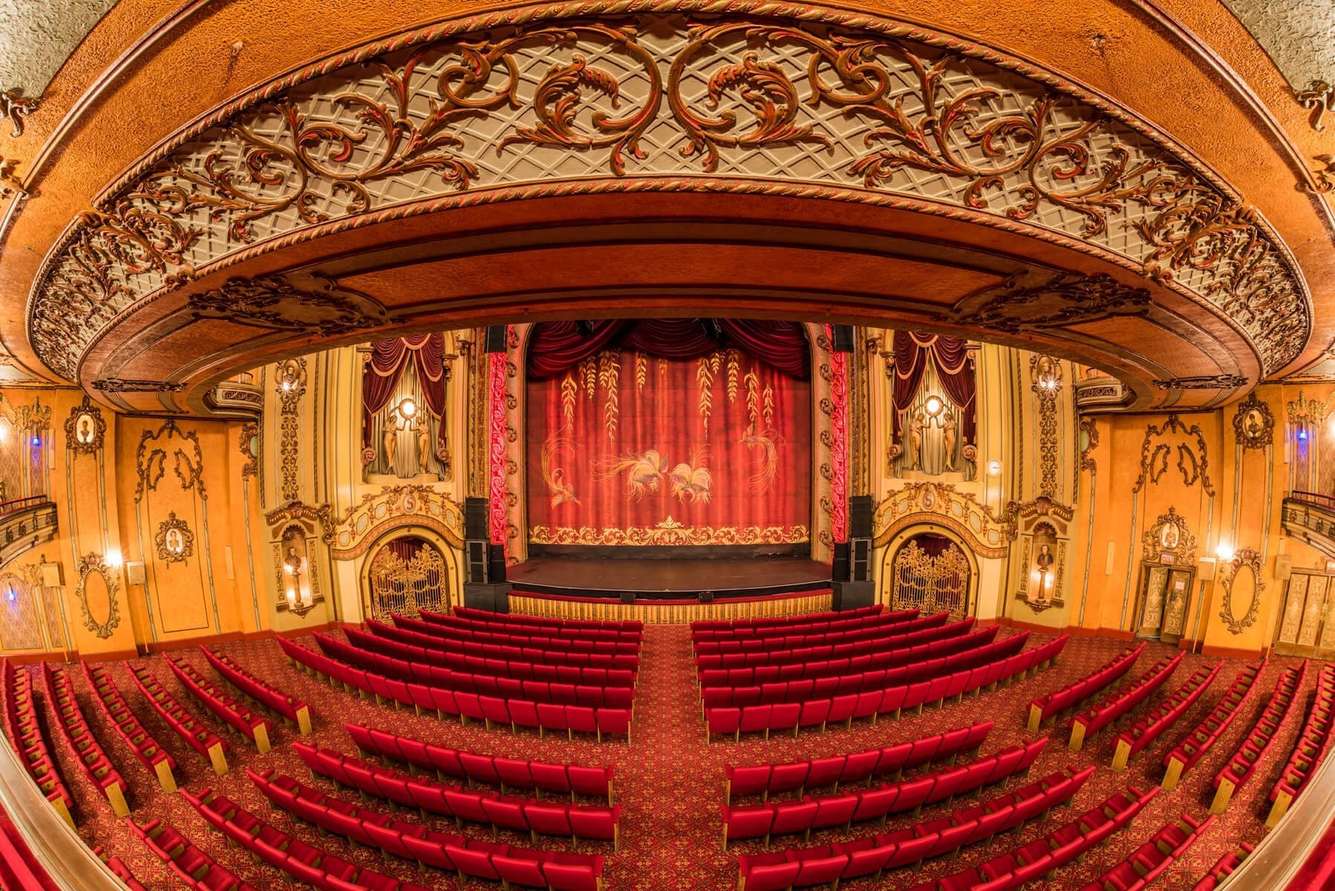
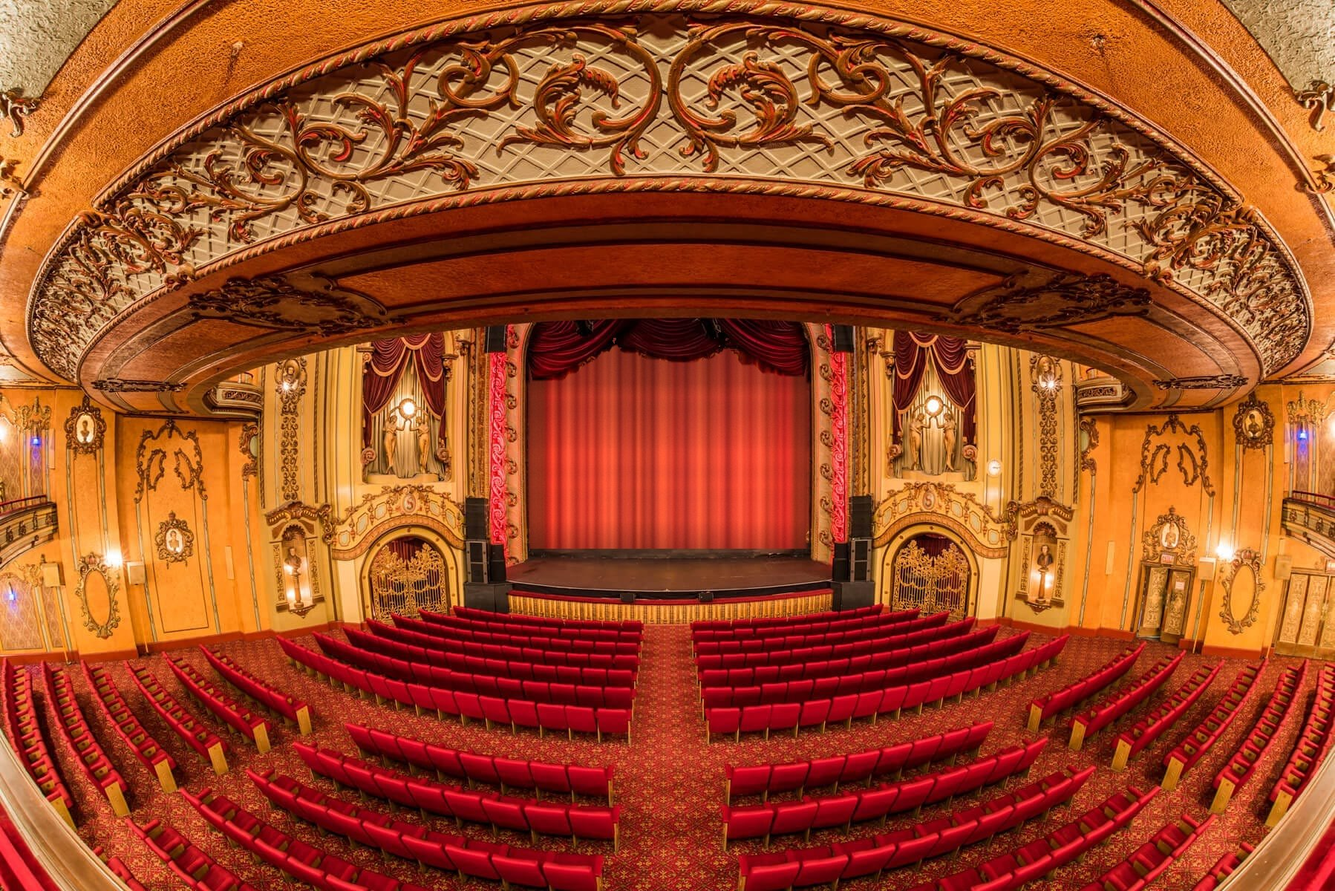
Faster entrance, plain red curtain, no captions before lights up
- Entrance push-in shortened to ~6.5s before the lights come up
- Theatre photo: replaced the embroidered house curtain with a plain red
  velvet curtain (folds and lighting rebuilt from the original), keeping
  the swag valance and gold proscenium
- Removed the opening logo overlay and all captions before lights up

Claude-Session: https://claude.ai/code/session_012HrCdgLb84tv9XXwr1UAx4

Changed region(s): [[0.3737, 0.37, 0.6229, 0.6167]]

diff --git a/index.html b/index.html
@@ -1,6 +1,6 @@
 <!doctype html><html lang="zh-CN"><head><meta charset="utf-8"><meta name="viewport" content="width=device-width,initial-scale=1"><meta name="robots" content="noindex,nofollow,noarchive,nosnippet"><meta name="googlebot" content="noindex,nofollow,noarchive,nosnippet"><title>候场喜剧 · Loading Zone Comedy</title><meta name="description" content="候场喜剧 Loading Zone Comedy — 墨尔本中文脱口秀与现场喜剧。"><link rel="stylesheet" href="styles.css"><link rel="stylesheet" href="intro.css"></head><body>
 <div class="grain"></div><header class="nav"><a class="brand" href="#home"><img src="logo.png"><span>候场喜剧<small>LOADING ZONE COMEDY</small></span></a><nav><a href="#shows" data-i18n="navShows">近期演出</a><a href="#gallery" data-i18n="navGallery">过往演出</a><a href="#membership" data-i18n="navMembership">会员</a><a href="#benefits" data-i18n="navBenefits">会员福利</a></nav><div class="nav-actions"><button class="lang" id="langBtn">EN</button><a class="member-pill" href="#login" data-i18n="memberLogin">会员登录</a></div></header>
-<section id="intro" class="intro" hidden aria-label="候场喜剧 · 剧场入场"><div class="intro-loader" data-intro="loader" aria-hidden="true"><div><div class="ring"><i style="transform:rotate(0deg) translateY(-58px);animation-delay:0.0s"></i><i style="transform:rotate(30deg) translateY(-58px);animation-delay:0.1s"></i><i style="transform:rotate(60deg) translateY(-58px);animation-delay:0.2s"></i><i style="transform:rotate(90deg) translateY(-58px);animation-delay:0.3s"></i><i style="transform:rotate(120deg) translateY(-58px);animation-delay:0.4s"></i><i style="transform:rotate(150deg) translateY(-58px);animation-delay:0.5s"></i><i style="transform:rotate(180deg) translateY(-58px);animation-delay:0.6s"></i><i style="transform:rotate(210deg) translateY(-58px);animation-delay:0.7s"></i><i style="transform:rotate(240deg) translateY(-58px);animation-delay:0.8s"></i><i style="transform:rotate(270deg) translateY(-58px);animation-delay:0.9s"></i><i style="transform:rotate(300deg) translateY(-58px);animation-delay:1.0s"></i><i style="transform:rotate(330deg) translateY(-58px);animation-delay:1.1s"></i><div class="logo-icon"></div></div><small data-copy="loading">候场中</small></div></div><div class="intro-sticky"><canvas aria-hidden="true"></canvas><div class="intro-ui"><div class="intro-brand" data-intro="brand"><img src="logo.png" alt="候场喜剧 Loading Zone Comedy"></div><p class="intro-line" data-intro="line1" data-copy="line1"></p><p class="intro-line" data-intro="line2" data-copy="line2"></p><p class="intro-line small" data-intro="line3" data-copy="line3"></p><a class="intro-hot" data-intro="hot-mic" href="#shows"><span data-copy="mic"></span></a><a class="intro-hot" data-intro="hot-stool" href="#membership"><span data-copy="stool"></span></a><div class="intro-hero" data-intro="hero"><div class="eyebrow" data-copy="eyebrow"></div><h1 data-intro="title"></h1><p data-intro="subtitle"></p><div class="cta-row"><a class="btn primary" href="#shows" data-copy="shows"></a><a class="btn" href="#membership" data-copy="join"></a></div></div><button class="intro-pill intro-skip" type="button" data-intro="skip" data-copy="skip"></button><button class="intro-pill intro-replay" type="button" data-intro="replay" data-copy="replay"></button><button class="intro-pill intro-sound" type="button" data-intro="sound" aria-pressed="false"></button><div class="intro-hint" data-intro="hint" aria-hidden="true"></div></div></div></section>
+<section id="intro" class="intro" hidden aria-label="候场喜剧 · 剧场入场"><div class="intro-loader" data-intro="loader" aria-hidden="true"><div><div class="ring"><i style="transform:rotate(0deg) translateY(-58px);animation-delay:0.0s"></i><i style="transform:rotate(30deg) translateY(-58px);animation-delay:0.1s"></i><i style="transform:rotate(60deg) translateY(-58px);animation-delay:0.2s"></i><i style="transform:rotate(90deg) translateY(-58px);animation-delay:0.3s"></i><i style="transform:rotate(120deg) translateY(-58px);animation-delay:0.4s"></i><i style="transform:rotate(150deg) translateY(-58px);animation-delay:0.5s"></i><i style="transform:rotate(180deg) translateY(-58px);animation-delay:0.6s"></i><i style="transform:rotate(210deg) translateY(-58px);animation-delay:0.7s"></i><i style="transform:rotate(240deg) translateY(-58px);animation-delay:0.8s"></i><i style="transform:rotate(270deg) translateY(-58px);animation-delay:0.9s"></i><i style="transform:rotate(300deg) translateY(-58px);animation-delay:1.0s"></i><i style="transform:rotate(330deg) translateY(-58px);animation-delay:1.1s"></i><div class="logo-icon"></div></div><small data-copy="loading">候场中</small></div></div><div class="intro-sticky"><canvas aria-hidden="true"></canvas><div class="intro-ui"><a class="intro-hot" data-intro="hot-mic" href="#shows"><span data-copy="mic"></span></a><a class="intro-hot" data-intro="hot-stool" href="#membership"><span data-copy="stool"></span></a><div class="intro-hero" data-intro="hero"><div class="eyebrow" data-copy="eyebrow"></div><h1 data-intro="title"></h1><p data-intro="subtitle"></p><div class="cta-row"><a class="btn primary" href="#shows" data-copy="shows"></a><a class="btn" href="#membership" data-copy="join"></a></div></div><button class="intro-pill intro-skip" type="button" data-intro="skip" data-copy="skip"></button><button class="intro-pill intro-replay" type="button" data-intro="replay" data-copy="replay"></button><button class="intro-pill intro-sound" type="button" data-intro="sound" aria-pressed="false"></button><div class="intro-hint" data-intro="hint" aria-hidden="true"></div></div></div></section>
 <main id="app"></main>
 <footer><div><img src="logo.png" class="footer-logo"><p>在墨尔本，把好笑的事情认真做。</p></div><div><strong>导航</strong><a href="#shows">近期演出</a><a href="#gallery">过往演出</a><a href="#membership">会员</a></div><div><strong>联系</strong><a href="mailto:info@loadingzonecomedy.com">info@loadingzonecomedy.com</a><a href="#admin">Admin / 后台</a></div><div class="copyright">© 2026 Loading Zone Comedy · 候场喜剧</div></footer>
 <script src="app.js"></script><script src="site.js"></script><script src="intro.js"></script></body></html>

diff --git a/intro.js b/intro.js
@@ -13,8 +13,8 @@
   const ui = (name) => root.querySelector('[data-intro="' + name + '"]');
   const reduceMotion = matchMedia('(prefers-reduced-motion: reduce)').matches;
   // 自动播放时间轴（秒）：开门 → 走过道 → 暗场 → 灯亮
-  const TIMELINE = [[0, 0], [2.5, 0.1], [11, 0.74], [12.5, 0.8], [14.5, 1]];
-  const LIGHT_AT = 12.5;
+  const TIMELINE = [[0, 0], [0.4, 0.1], [5.6, 0.74], [6.5, 0.8], [8, 1]];
+  const LIGHT_AT = 6.5;
   function timeToP(sec) {
     for (let i = 1; i < TIMELINE.length; i++) {
       const [t0, p0] = TIMELINE[i - 1], [t1, p1] = TIMELINE[i];
@@ -516,7 +516,7 @@
    * fx/fy 为画面聚焦点（相对照片宽高），z 为放大倍数。
    */
   const SHOTS = [
-    { src: 'intro-assets/hall-front.jpg', t0: 0, t1: 12.5, from: { fx: 0.5, fy: 0.5, z: 1.0 }, to: { fx: 0.5, fy: 0.56, z: 1.9 } }
+    { src: 'intro-assets/hall-front.jpg', t0: 0, t1: 6.5, from: { fx: 0.5, fy: 0.5, z: 1.0 }, to: { fx: 0.5, fy: 0.56, z: 1.8 } }
   ];
   let shotsReady = 0;
   for (const sh of SHOTS) { sh.img = new Image(); sh.img.onload = () => { sh.ok = true; shotsReady++; }; sh.img.src = sh.src; }
@@ -756,7 +756,7 @@
       vignette(0.55);
     } else {
       if (dark < 1) {
-        if (shotsReady === SHOTS.length) drawShots(mode === 'full' ? state.clock : 12.5, 1 - 0.6 * smooth(0.55, 0.74, p), t);
+        if (shotsReady === SHOTS.length) drawShots(mode === 'full' ? state.clock : 6.5, 1 - 0.6 * smooth(0.55, 0.74, p), t);
         else drawHall(p, house, phones, doorOpen, t);
       }
       ctx.globalAlpha = 1;
@@ -767,10 +767,6 @@
     // 界面层
     const lit = state.lit;
     const set = (name, o) => { const el = ui(name); el.style.opacity = o.toFixed(3); el.style.visibility = o < 0.01 ? 'hidden' : 'visible'; };
-    set('brand', mode === 'full' ? 1 - smooth(0.04, 0.1, p) : 0);
-    set('line1', band(p, 0.16, 0.34));
-    set('line2', band(p, 0.42, 0.62));
-    set('line3', band(p, 0.67, 0.77, 0.02));
     set('hero', smooth(0.55, 0.95, lit));
     set('hot-mic', smooth(0.85, 1, lit));
     set('hot-stool', smooth(0.85, 1, lit));
